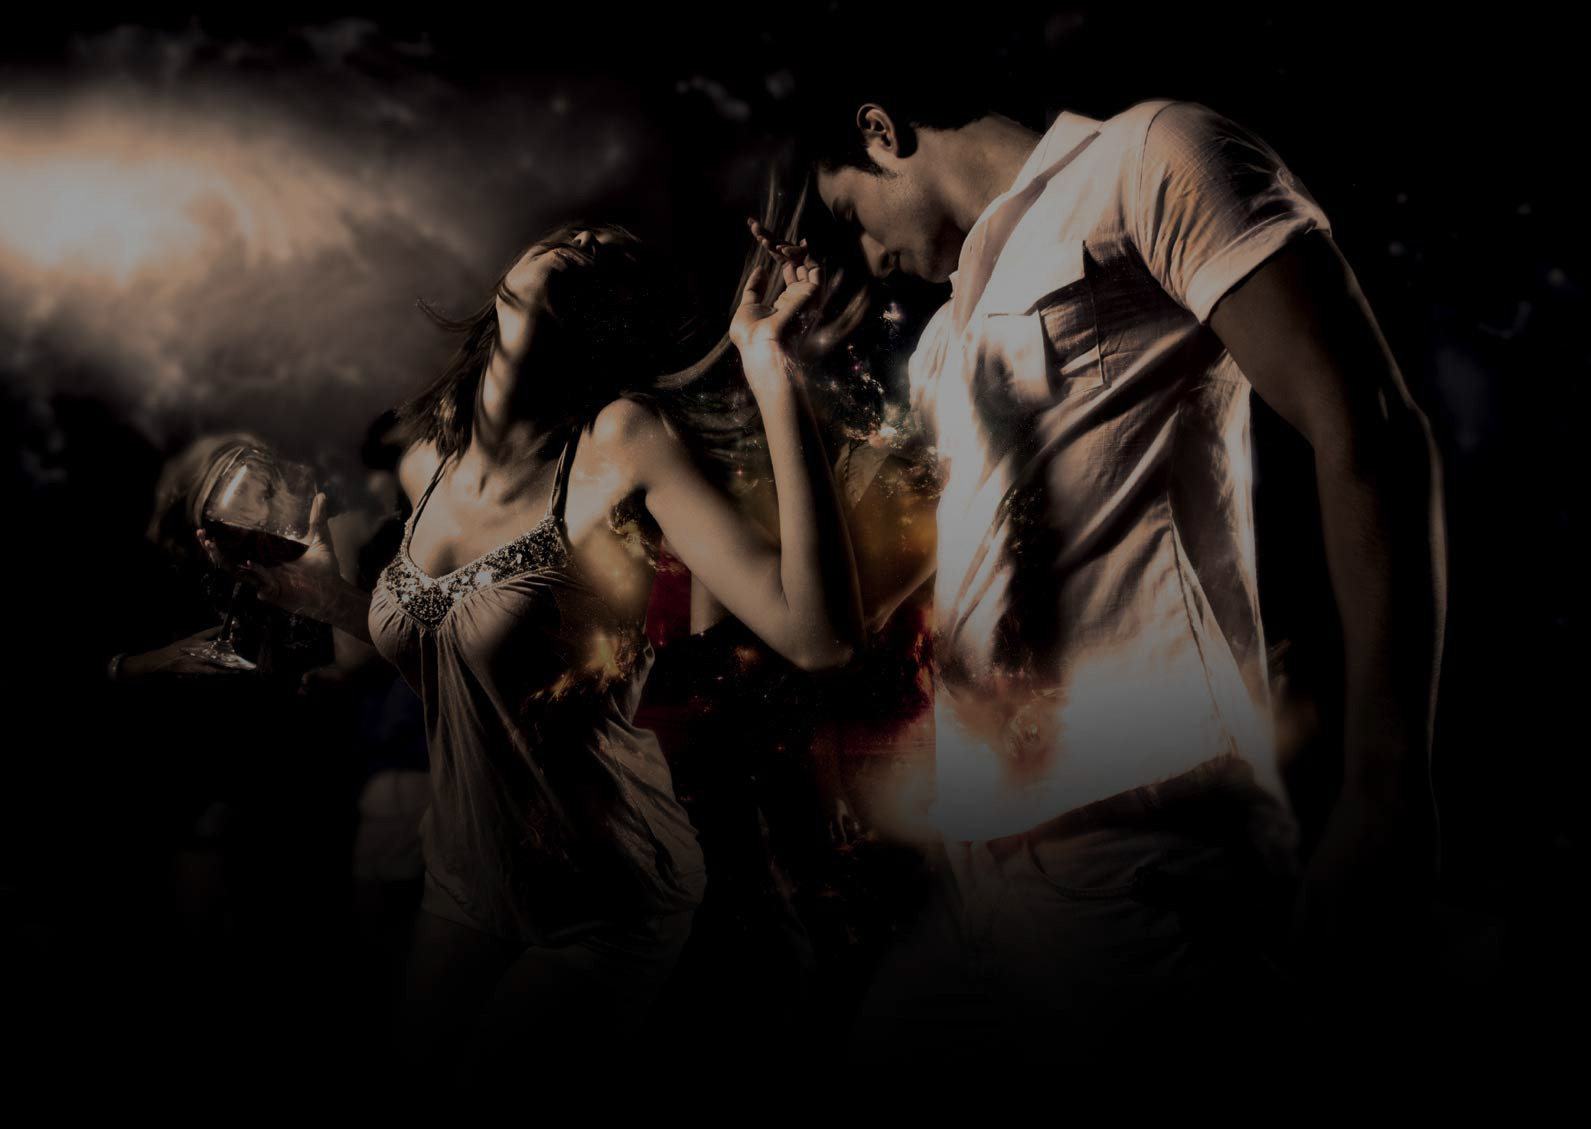
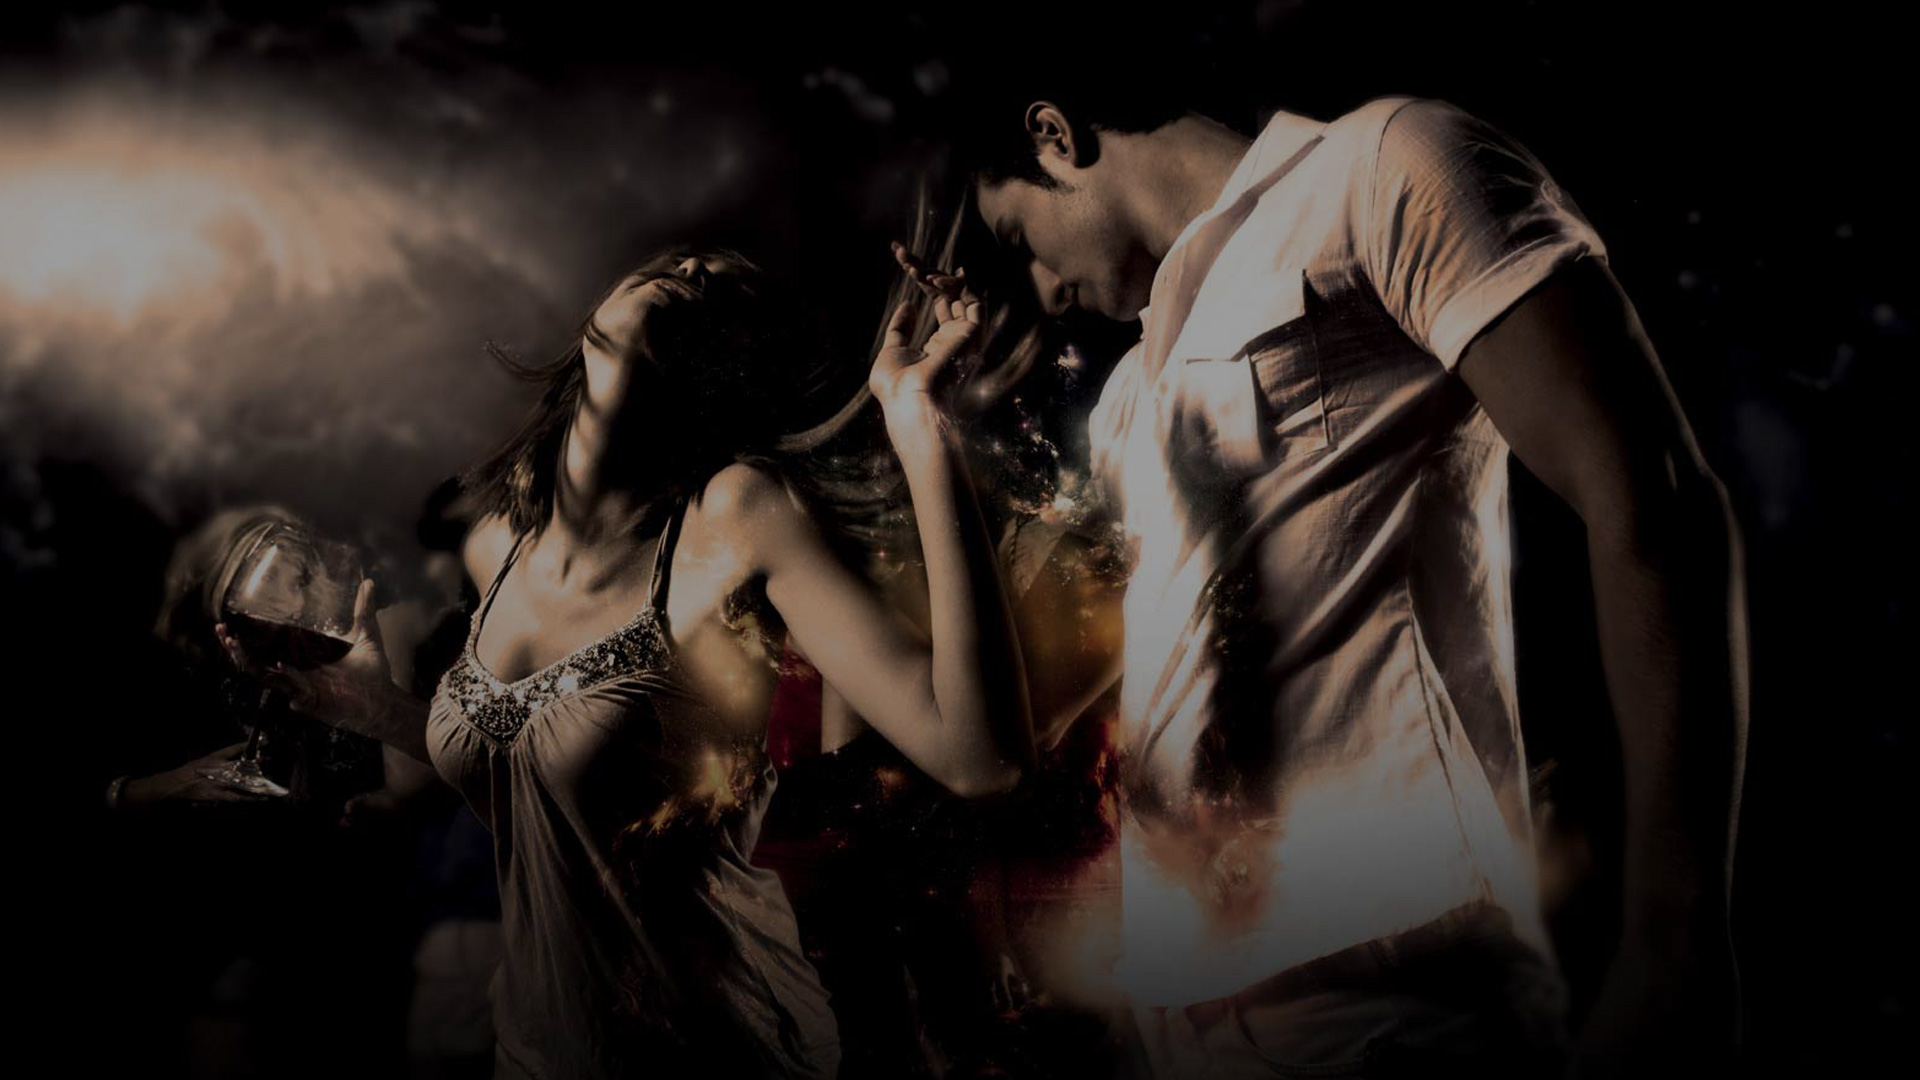
TV

diff --git a/css/main.css b/css/main.css
@@ -13,6 +13,7 @@ textarea {
 body {
     font-size: 1em;
     line-height: 1.4;
+    overflow:hidden;
 }
 
 ::-moz-selection {
@@ -64,7 +65,7 @@ textarea {
 /* Home Slider - Revolution Slider */
 #revolutionSlider {
 	background: #666;
-	max-height: 1080px;
+	max-height: 1280px;
 	overflow: hidden;
 	padding: 0;
 	position: relative;
